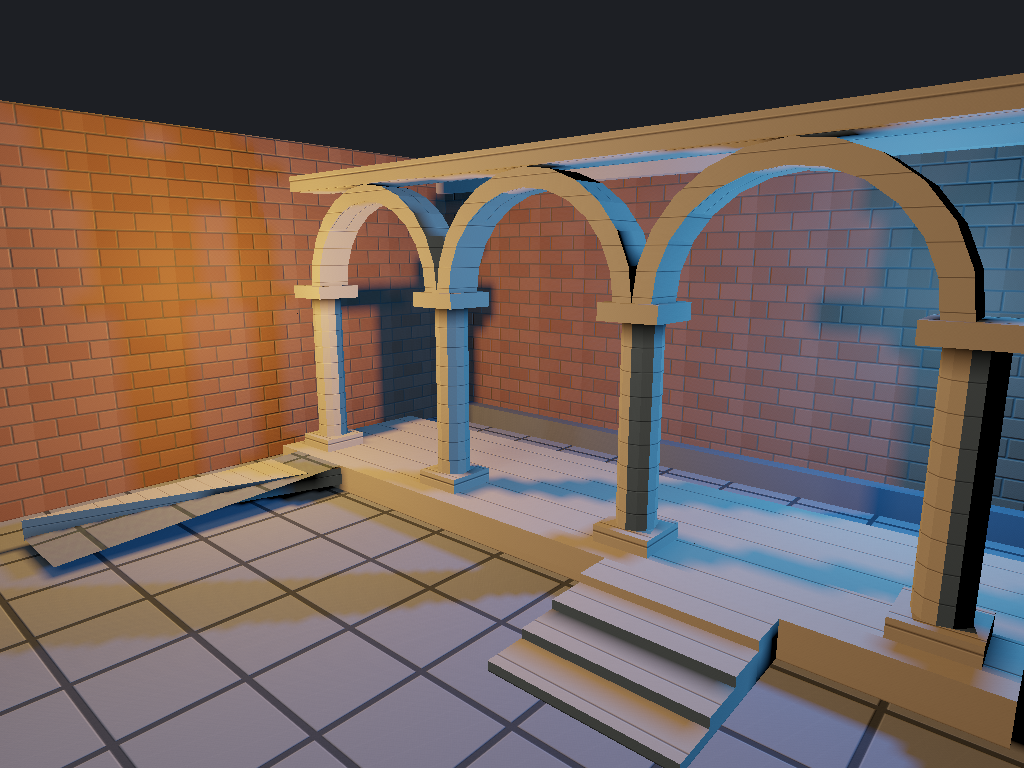
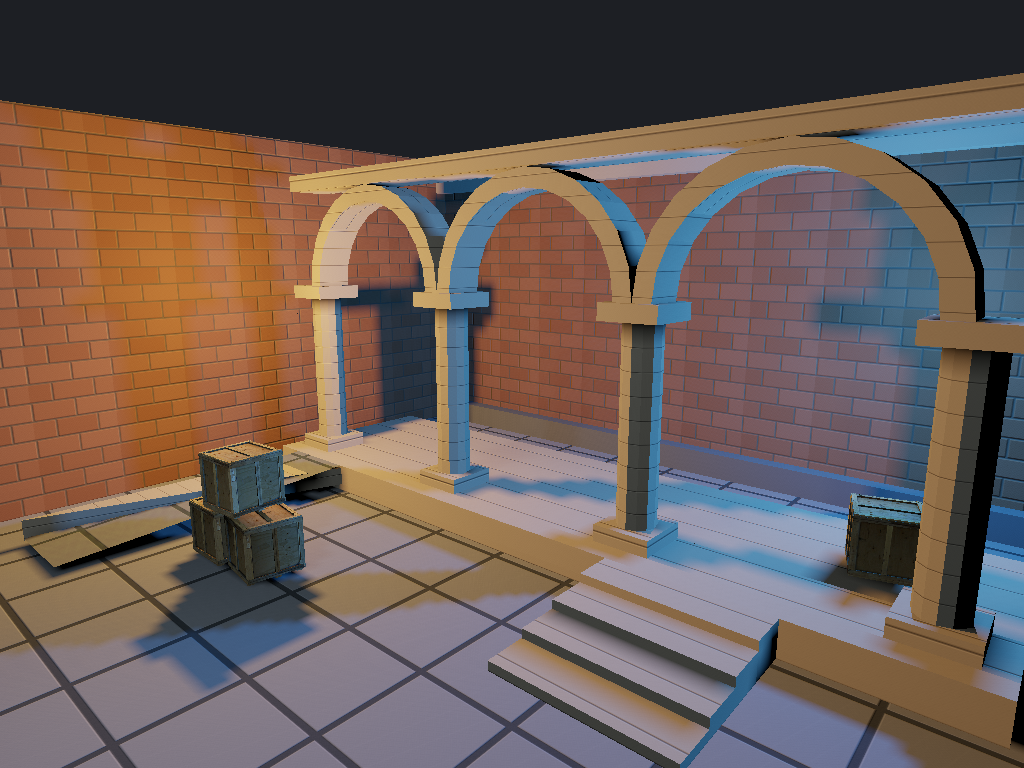
Show the combined baked-lighting workflow

Changed region(s): [[0.0, 0.5625, 0.3125, 0.9062], [0.7812, 0.625, 0.9062, 0.8125], [0.9375, 0.75, 1.0, 0.7812]]

diff --git a/docs/status.md b/docs/status.md
@@ -51,7 +51,7 @@ The integrated compiler is experimental. File operations, BSP publication and ga
 | [Overlays](overlays.md) | Coplanar flat, isolated planar-terrain and mixed-group fitting, refit, rebind and corner editing; native projections, face splitting and water transitions. | Joined or nonplanar terrain authoring; projected-material viewport preview. |
 | [Assemblies](instances.md) | Checked transforms, stationary child brush poses, opaque zero-source-angle `func_wall` models, local spotlight targets, static fog and nested light-value bindings; collapse all visible references or a selected leading set into checked editable world/detail/terrain, props, lights and cubemaps with captured source routes. | Prop collapse needs empty lightingorigin. Arbitrary-subset collapse, other runtime-entity collapse, scripting and broader name fixups. |
 | [Visibility helpers](occluders.md) | Occluders and eligible visibility-cluster volumes. | Unsupported memberships and dynamic child control. |
-| [Baked surfaces](baked-surfaces.md) | Final world/detail, terrain and initial-pose brush-model geometry; optional static-prop vertex lighting with exact skins, hardware LODs and cutouts; LDR/HDR, exposure and supported compiled materials. | Prop lightmaps, runtime poses, animated effects, native adaptation and exact game appearance. |
+| [Baked surfaces](baked-surfaces.md) | Final world/detail, terrain and initial-pose brush-model geometry; optional static-prop vertex lighting with exact skins, hardware LODs and cutouts; LDR/HDR, exposure and supported compiled materials; display alongside final details. | Prop lightmaps, runtime poses, animated effects, native adaptation and exact game appearance. |
 | [Inspection](baked-lightmaps.md) | Owned face lightmaps, prop vertex bytes, native light records and captured point/spot, static-prop and baked face source identities with complete nested helper routes; [frame current point/spot origins](compiled-lights.md) and [native static-prop origins](baked-prop-vertices.md) in the viewport; select the root entity or containing reference for a current prop or light; frame compiled faces and show complete native prop leaf bounds. | Unreportable physical paths show stale provenance; occurrence routes describe captured sources only. |
 | [Publication](compile-regions.md) | Captured build scope, consumed material-source guards, explicit split errors, cancellation, checked output writes and private game launch. | General cross-platform file/runtime support. |
 

diff --git a/docs/baked-prop-vertices.md b/docs/baked-prop-vertices.md
@@ -3,6 +3,7 @@
 # Baked prop vertices
 
 Inspect captured static-prop sources, native leaf membership and baked vertex colors.
+Use [Baked surfaces](baked-surfaces.md) to view these colors on final models and frame their mesh bounds.
 
 1. To read colors, enable **Bake static-prop vertex lighting** in **Build settings…**.
    Choose **Direct LDR** or **Direct LDR + HDR**.
@@ -52,7 +53,7 @@ Camera, selection, map, history and ordinary drafts stay unchanged.
 - Prop ordinals and hardware sections belong to one build. Source addresses identify captured authored entities; selection uses only a current verified capture.
 - Missing or unverified source metadata is reported separately; valid native prop and color rows remain available.
 - Captured prop metadata is limited to 8 MiB, including shared occurrence storage once. Source copies are admitted before allocation within 128 KiB per report; each report is limited to 256 KiB.
-- Hardware vertices are not mapped to model vertex positions.
+- Raw vertex pages do not include model positions. Baked surfaces resolves the hardware layout for display.
 - Leaf boxes are conservative native bounds. They do not show exact convex cells, prop mesh clipping or runtime visibility.
 - A complete guide must fit 512 leaves and 256 KiB of bounds and renderer storage. An invalid or larger request keeps the previous guide. The bounds are never truncated.
 - Leaf guides require the original tracked directory metadata. A directory change can suppress a guide even when its BSP is intact.

diff --git a/docs/baked-surfaces.md b/docs/baked-surfaces.md
@@ -21,7 +21,10 @@ A failed update keeps the previous settings. **Prepare** and **Clear** reset the
 The viewport surface modes show final geometry, including wireframe, lightmap
 density and smoothing groups.
 
-![Baked lighting on arches, a terrain ramp and brush-model stairs](images/baked-surfaces.png)
+![Baked lighting on arches, terrain, brush-model stairs and static props](images/baked-surfaces.png)
+
+You can also prepare and show [final compiled details](compiled-details.md).
+The two layers keep separate lighting controls.
 
 ## Materials and view
 
@@ -40,6 +43,10 @@ Static props use the final model pose, selected skin and exact hardware vertex
 colours for each LOD. Colours decode before triangle interpolation.
 Supported `VertexLitGeneric` materials include the compiler's cutout cases.
 An absent optional base texture uses white; a declared missing texture fails.
+
+Fine shadows need enough model vertices. To omit a prop's own vertex shadows,
+set **Disable Self-Shadowing with vertex lighting** to **Yes**, then compile and
+prepare again. Other objects still cast shadows on the prop.
 
 ## Limits
 

diff --git a/README.md b/README.md
@@ -107,7 +107,7 @@ See the [tool index and setup](docs/mcp.md).
 
 | [Baked surfaces](docs/baked-surfaces.md) | [Map comparison](docs/map-comparison.md) |
 | --- | --- |
-| ![Baked light on final arches, terrain and brush-model stairs](docs/images/baked-surfaces.png) | ![Changed objects selected after an external-map comparison](docs/images/external-map-comparison.png) |
+| ![Baked lighting on arches, terrain, stairs and wooden props](docs/images/baked-surfaces.png) | ![Changed objects selected after an external-map comparison](docs/images/external-map-comparison.png) |
 | View final brushes, terrain, brush models and static props with baked lighting. | Compare stored objects and select or frame current matches. |
 
 Counter-Strike: Source and its assets are not included.

diff --git a/docs/mcp.md b/docs/mcp.md
@@ -441,6 +441,7 @@ Hide retains them. Static props keep baked weight 1; channel and EV apply to bot
 sampling and material policy. The layer uses current owned output and separately
 guarded display assets; editing contexts can suppress it. Authored picking,
 hiding and history remain separate from native face ordinals.
+Baked surfaces and compiled details can be shown together. Keep their preparation tokens and lighting settings separate.
 
 For [final detail placements](compiled-details.md), call `set_compiled_details`
 with `action:"prepare"`. Set `background:true` to read the owned BSP in a worker.

diff --git a/docs/compiled-details.md b/docs/compiled-details.md
@@ -4,6 +4,7 @@
 
 Show the final models, cards and cross/tri shapes from a successful build.
 The layer includes material-scattered details and uses their native BSP placements.
+Show [Baked surfaces](baked-surfaces.md) at the same time to include compiled brushes, terrain and static props. Lighting controls remain separate.
 
 1. Click **Compile**.
 2. Open **Build details… → Compiled details…**. You can also use **Build settings… → Compiled details…**.
